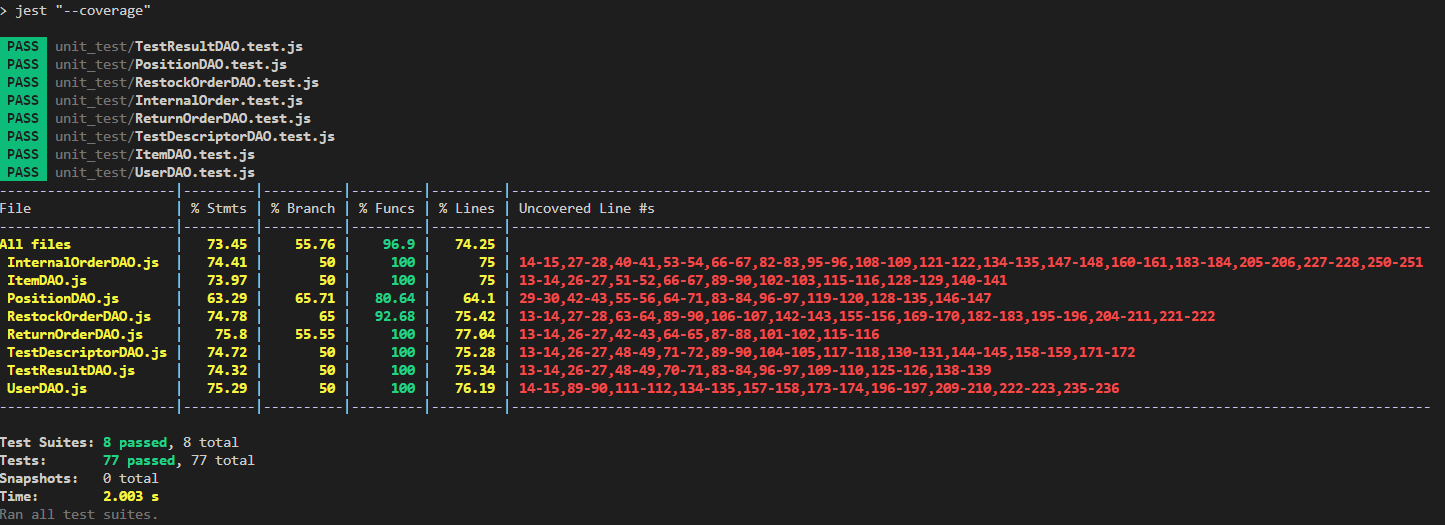
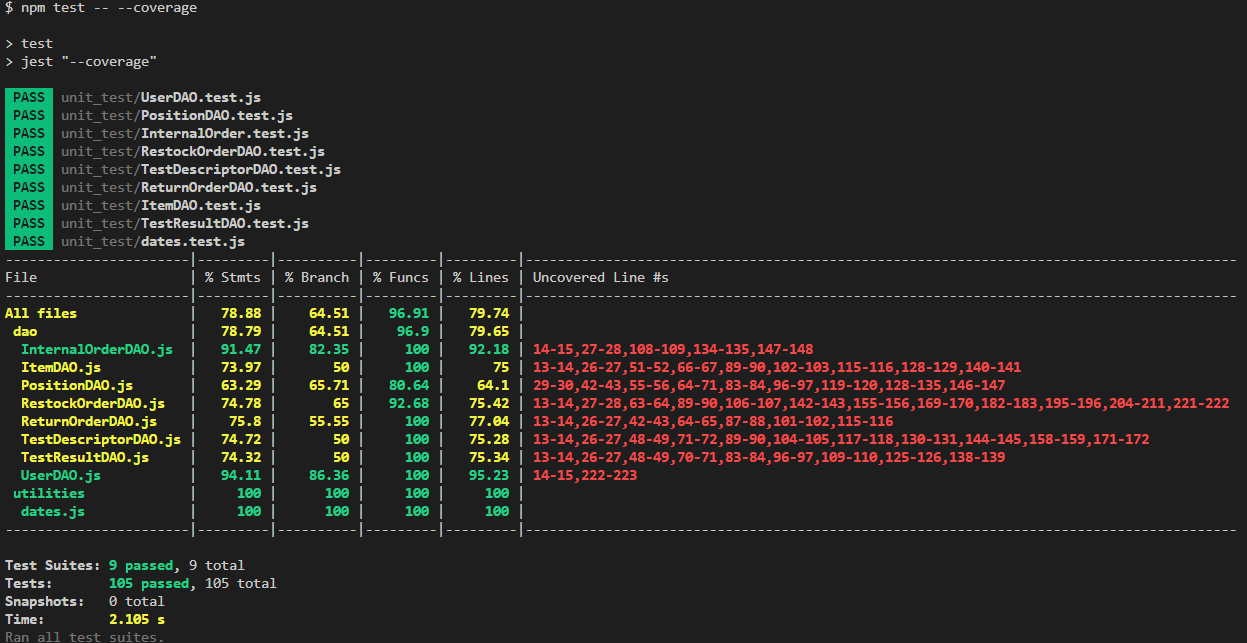
Increasing coverage

Changed region(s): [[0.0, 0.061, 1.0, 1.0], [0.0, 0.0, 0.1524, 0.0305]]

diff --git a/code/server/unit_test/InternalOrder.test.js b/code/server/unit_test/InternalOrder.test.js
@@ -3,111 +3,155 @@ const db = new internalOrderDao('EzWh.db');
 
 function testAddInternalOrder(input,expectedResult) {
     test('Create new internal order', async () => {
-        
-        let res = await db.storeInternalOrder(input);
+        try{
+            let res = await db.storeInternalOrder(input);
+            expect(res).toStrictEqual(expectedResult);
+        }
+        catch(err){
+            expect(err.code).toStrictEqual(expectedResult);
+        }
 
-        expect(res).toStrictEqual(expectedResult);
     });
 }
 
 function testAddInternalOrderProducts(input,expectedResult) {
     test('Create new internal order products', async () => {
-        
-        let res = await db.storeInternalOrderProducts(input);
-        expect(res).toStrictEqual(expectedResult);
+        try{
+            let res = await db.storeInternalOrderProducts(input);
+            expect(res).toStrictEqual(expectedResult);
+        }
+        catch(err){
+            expect(err.code).toStrictEqual(expectedResult);
+        }
     });
 }
 
 function testCheckIfOrderExists(input,expectedResult) {
     test('Check if order exists', async () => {
-        
-        let res = await db.checkIfOrderExists(input);
-        expect(res[0]).toStrictEqual(expectedResult);
+        try{
+            let res = await db.checkIfOrderExists(input);
+            expect(res[0]).toStrictEqual(expectedResult);
+        }
+        catch(err){
+            expect(err.code).toStrictEqual(expectedResult);
+        }
     });
 }
 
 function testUpdateInternalOrder(input,expectedResult) {
     test('Edit existing internal order', async () => {
-        
-        let res = await db.updateInternalOrder(input);
-
-        expect(res).toStrictEqual(expectedResult);
+        try{ 
+            let res = await db.updateInternalOrder(input);
+            expect(res).toStrictEqual(expectedResult);
+        }
+        catch(err){
+            expect(err.code).toStrictEqual(expectedResult);
+        }
     });
 }
 
 function testUpdateInternalOrderProduct(input,expectedResult) {
     test('Edit existing internal order product', async () => {
-        
-        let res = await db.updateInternalOrderProducts(input);
-
-        expect(res).toStrictEqual(expectedResult);
+        try{
+            let res = await db.updateInternalOrderProducts(input);
+            expect(res).toStrictEqual(expectedResult);
+        }
+        catch(err){
+            expect(err.code).toStrictEqual(expectedResult);
+        }
     });
 }
 
 function testDeleteInternalOrder(input,expectedResult) {
     test('Delete existing internal order', async () => {
-        
-        let res = await db.deleteInternalOrder(input);
-
-        expect(res).toStrictEqual(expectedResult);
+        try{
+            let res = await db.deleteInternalOrder(input);
+            expect(res).toStrictEqual(expectedResult);
+        }
+        catch(err){
+            expect(err.code).toStrictEqual(expectedResult);
+        }
     });
 }
 
 function testDeleteInternalOrderProducts(input,expectedResult) {
     test('Delete existing internal order product', async () => {
-        
-        let res = await db.deleteInternalOrderProducts(input);
-
-        expect(res).toStrictEqual(expectedResult);
+        try{
+            let res = await db.deleteInternalOrderProducts(input);
+            expect(res).toStrictEqual(expectedResult);
+        }
+        catch(err){
+            expect(err.code).toStrictEqual(expectedResult);
+        }
     });
 }
 
 function testGetInternalOrder(expectedResult) {
     test('Retrieve internal orders', async () => {
-        
-        let res = await db.getInternalOrders();
-
-        expect(JSON.stringify(res)).toStrictEqual(JSON.stringify(expectedResult));
+        try{
+            let res = await db.getInternalOrders();
+            expect(JSON.stringify(res)).toStrictEqual(JSON.stringify(expectedResult));
+        }
+        catch(err){
+            expect(err.code).toStrictEqual(expectedResult);
+        }
     });
 }
 
 function testGetInternalOrderProducts(input,expectedResult) {
     test('Retrieve internal orders products', async () => {
-        
-        let res = await db.getInternalOrdersProducts(input);
-
-        expect(JSON.stringify(res)).toStrictEqual(JSON.stringify(expectedResult));
+        try{
+            let res = await db.getInternalOrdersProducts(input);
+            expect(JSON.stringify(res)).toStrictEqual(JSON.stringify(expectedResult));
+        }
+        catch(err){
+            expect(err.code).toStrictEqual(expectedResult);
+        }
     });
 }
 
 function testGetInternalOrderProductsCompleted(input,expectedResult) {
     test('Retrieve internal orders products of completed orders', async () => {
-        
-        let res = await db.getInternalOrdersProductsCompleted(input);
-
-        expect(JSON.stringify(res)).toStrictEqual(JSON.stringify(expectedResult));
+        try{
+            let res = await db.getInternalOrdersProductsCompleted(input);
+            expect(JSON.stringify(res)).toStrictEqual(JSON.stringify(expectedResult));
+        }
+        catch(err){
+            expect(err.code).toStrictEqual(expectedResult);
+        }     
     });
 }
 
 function testGetInternalOrdersByState(input,expectedResult) {
     test('Retrieve internal orders by state', async () => {
-        
-        let res = await db.getInternalOrdersByState(input);
-
-        expect(JSON.stringify(res)).toStrictEqual(JSON.stringify(expectedResult));
+        try{
+            let res = await db.getInternalOrdersByState(input);
+            expect(JSON.stringify(res)).toStrictEqual(JSON.stringify(expectedResult));
+        }
+        catch(err){
+            expect(err.code).toStrictEqual(expectedResult);
+        }
     });
 }
 
 function testGetInternalOrdersbyID(input,expectedResult) {
     test('Retrieve internal orders by ID', async () => {
-        
-        let res = await db.getInternalOrdersbyID(input);
-
-        expect(JSON.stringify(res)).toStrictEqual(JSON.stringify(expectedResult));
+        try{
+            let res = await db.getInternalOrdersbyID(input);
+            expect(JSON.stringify(res)).toStrictEqual(JSON.stringify(expectedResult));
+        }
+        catch(err){
+            expect(err.code).toStrictEqual(expectedResult);
+        }
     });
 }
 
-
+function testDropTables() {
+    test('Drop Internal Order table', async () => {
+        await db.dropInternalOrders();
+        await db.dropInternalOrdersProducts();
+    });
+}
 
 //************************************************************************** */
 //Calling test functions
@@ -157,6 +201,23 @@ describe('Test Internal Order DAO', () => {
     //Get product from internal order, should be empty
     testGetInternalOrderProducts({id:1},[]);
 
-
+    /********************************************************************** */
+    //Repeat all test without create the proper table, this will generate a SQLLITE_ERROR
+    testDropTables();    //DROP TABLE
+    testAddInternalOrder({issueDate:"2021/11/29 09:33",state: "ISSUED",customerId: 1},"SQLITE_ERROR");
+    testGetInternalOrder("SQLITE_ERROR");
+    testAddInternalOrderProducts({SKUId:12,description:"a product",price:10.99,qty:3,orderId:1},"SQLITE_ERROR");
+    testGetInternalOrderProducts({id:1},"SQLITE_ERROR");
+    testCheckIfOrderExists({orderId:1},"SQLITE_ERROR");
+    testUpdateInternalOrder({newState:"COMPLETED",orderId: 1},"SQLITE_ERROR");
+    testUpdateInternalOrderProduct({RFID:"1234567891234567",SKUId:12,orderId: 1},"SQLITE_ERROR");
+    testGetInternalOrderProductsCompleted({id:1},"SQLITE_ERROR");
+    testGetInternalOrdersByState("COMPLETED","SQLITE_ERROR")
+    testGetInternalOrdersByState("ISSUED","SQLITE_ERROR")
+    testGetInternalOrdersByState("ACCEPTED","SQLITE_ERROR")
+    testGetInternalOrdersbyID({orderId:1},"SQLITE_ERROR")
+    testGetInternalOrder("SQLITE_ERROR");
+    testDeleteInternalOrderProducts({orderId:1},"SQLITE_ERROR")
+    testGetInternalOrderProducts({id:1},"SQLITE_ERROR");
    
 });

diff --git a/code/server/unit_test/UserDAO.test.js b/code/server/unit_test/UserDAO.test.js
@@ -3,77 +3,107 @@ const db = new userDao('EzWh.db');
 
 function testAddUser(input,expectedResult) {
     test('Create new user', async () => {
-        
-        let res = await db.storeUser(input);
-        
-        expect(res).toStrictEqual(expectedResult);
+        try{
+            let res = await db.storeUser(input);
+            expect(res).toStrictEqual(expectedResult);
+        }
+        catch(err){
+            expect(err.code).toStrictEqual(expectedResult);
+        }
     });
 }
 
 function testEditUser(input,expectedResult) {
     test('Edit existing user', async () => {
-
-        let res = await db.updateUser(input)
-        
-        expect(res).toStrictEqual(expectedResult);
+        try{
+            let res = await db.updateUser(input)    
+            expect(res).toStrictEqual(expectedResult);
+        }
+        catch(err){
+            expect(err.code).toStrictEqual(expectedResult);
+        }
     });
 }
 
 function testCheckStored(input,expectedResult) {
     test('Check if user exist', async () => {
-
-        let res = await db.checkIfStored(input);
-
-        expect(res[0]).toStrictEqual(expectedResult);
+        try{
+            let res = await db.checkIfStored(input);
+            expect(res[0]).toStrictEqual(expectedResult);
+        }
+        catch(err){
+            expect(err.code).toStrictEqual(expectedResult);
+        }
     });
 }
 
 
 function testGetUserByEmailType(input,expectedResult) {
     test('Retrieve user by email and type', async () => {
-
-        let res = await db.getUserByEmailType(input);
-
-        expect(JSON.stringify(res)).toStrictEqual(JSON.stringify(expectedResult));
+        try{
+            let res = await db.getUserByEmailType(input);
+            expect(JSON.stringify(res)).toStrictEqual(JSON.stringify(expectedResult));
+        }
+        catch(err){
+            expect(err.code).toStrictEqual(expectedResult);
+        }
     });
 }
 
 function testGetUsers(expectedResult) {
     test('Retrieving users', async () => {
-
-        let res = await db.getStoredUsers();
-
-        expect(JSON.stringify(res)).toStrictEqual(JSON.stringify(expectedResult));
+        try{
+            let res = await db.getStoredUsers();
+            expect(JSON.stringify(res)).toStrictEqual(JSON.stringify(expectedResult));
+        }
+        catch(err){
+            expect(err.code).toStrictEqual(expectedResult);
+        }
     });
 }
 
 function testGetSuppliers(expectedResult) {
     test('Retrieving suppliers', async () => {
-
-        let res = await db.getStoredSuppliers();
-
-        expect(JSON.stringify(res)).toStrictEqual(JSON.stringify(expectedResult));
+        try{
+            let res = await db.getStoredSuppliers();
+            expect(JSON.stringify(res)).toStrictEqual(JSON.stringify(expectedResult));
+        }
+        catch(err){
+            expect(err.code).toStrictEqual(expectedResult);
+        }
     });
 }
 
 function testGetUsersWithoutManagers(expectedResult) {
     test('Retrieving users without manager', async () => {
-
-        let res = await db.getStoredUsersWithoutManagers();
-
-        expect(JSON.stringify(res)).toStrictEqual(JSON.stringify(expectedResult));
+        try{
+            let res = await db.getStoredUsersWithoutManagers();
+            expect(JSON.stringify(res)).toStrictEqual(JSON.stringify(expectedResult));
+        }
+        catch(err){
+            expect(err.code).toStrictEqual(expectedResult);
+        }
     });
 }
 
 function testDeleteUser(input, expectedResult) {
     test('Delete existing user', async () => {
-        
-        let res = await db.deleteUser(input);
-        
-        expect(res).toStrictEqual(expectedResult);
+        try{
+            let res = await db.deleteUser(input);
+            expect(res).toStrictEqual(expectedResult);
+        }
+        catch(err){
+            expect(err.code).toStrictEqual(expectedResult);
+        }
     });
 }
 
+function testDropUsers() {
+    test('Drop user table', async () => {
+        
+        await db.dropUsers();
+    });
+}
 
 
 //************************************************************************** */
@@ -114,5 +144,17 @@ describe('Test User DAO', () => {
     testGetSuppliers([]);
     //Get users excluding manager.Should be empty
     testGetUsersWithoutManagers([]);
-   
+
+
+    //********************************************************************** */
+    //Repeat all test without create the proper table, this will generate a SQLLITE_ERROR
+    testDropUsers();    //DROP TABLE
+    testAddUser({username: "user1@ezwh.com",name: "John",surname : "Smith",password : "testpassword",type : "customer"},"SQLITE_ERROR");
+    testGetUsers("SQLITE_ERROR");
+    testGetUsersWithoutManagers("SQLITE_ERROR");
+    testGetSuppliers("SQLITE_ERROR");
+    testGetUserByEmailType({username: "user1@ezwh.com",type : "customer"},"SQLITE_ERROR");  
+    testCheckStored({username: "user1@ezwh.com",type : "customer"},"SQLITE_ERROR") 
+    testEditUser({username: "user1@ezwh.com",type : "customer", newType: "supplier"},"SQLITE_ERROR"); 
+    testDeleteUser({username: "user1@ezwh.com",type : "supplier"},"SQLITE_ERROR");
 });
